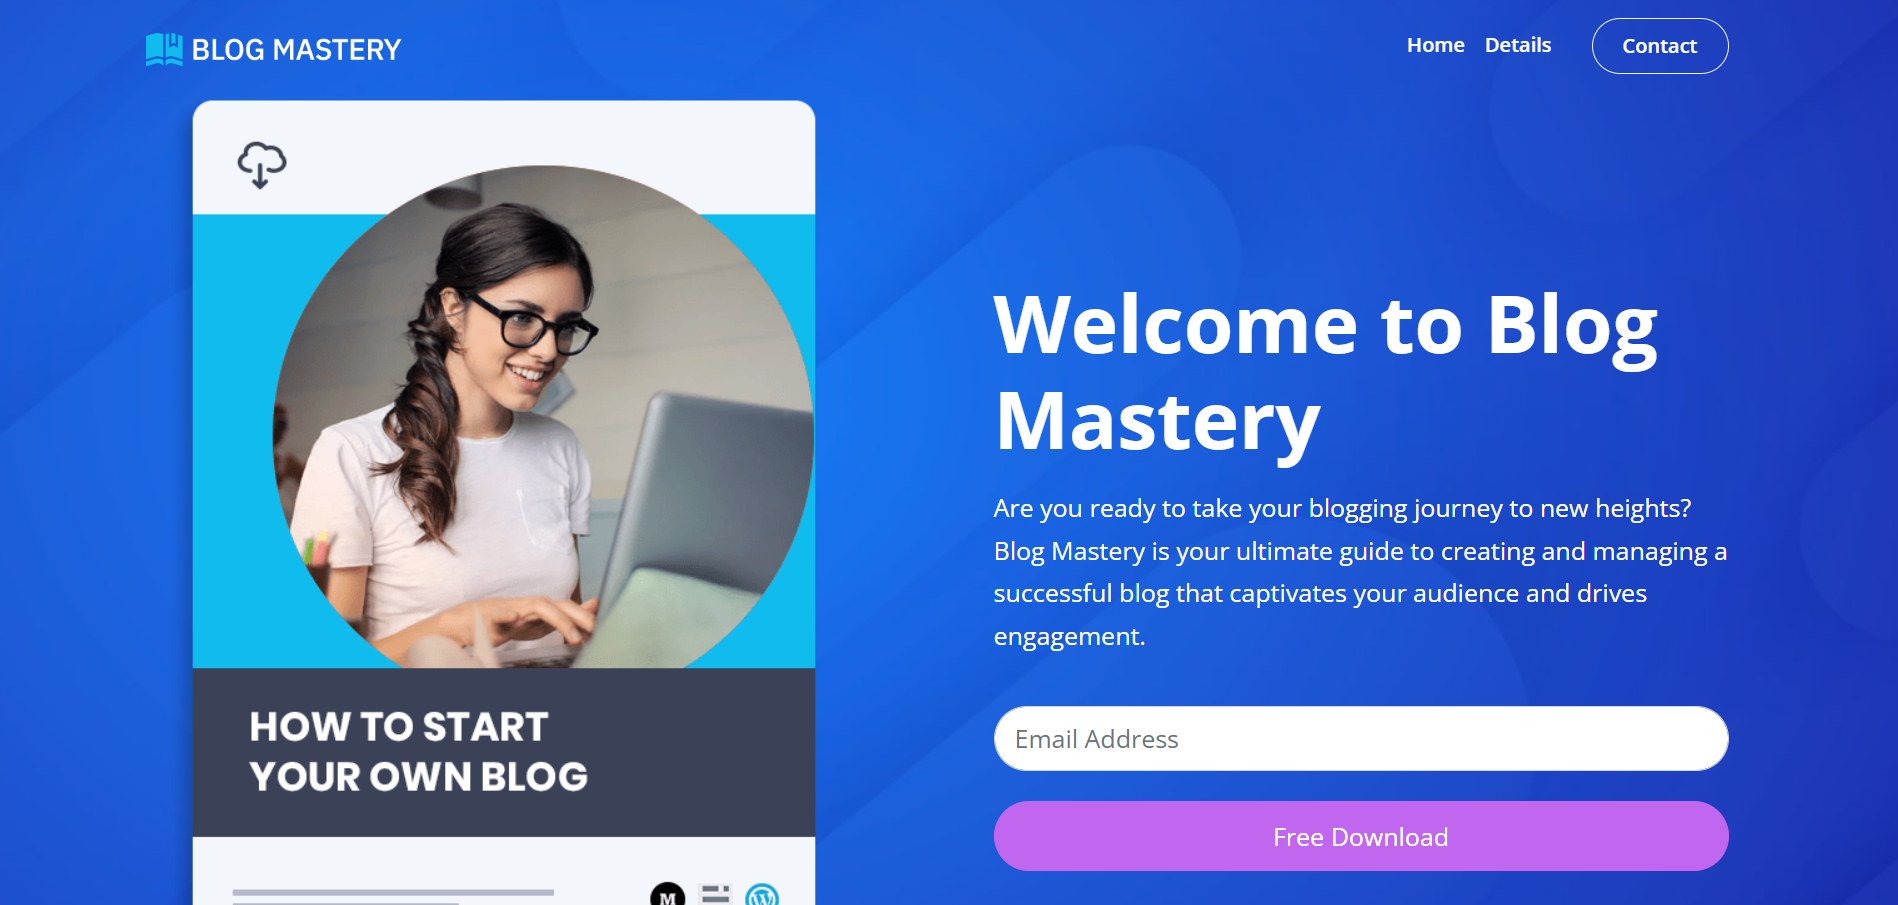
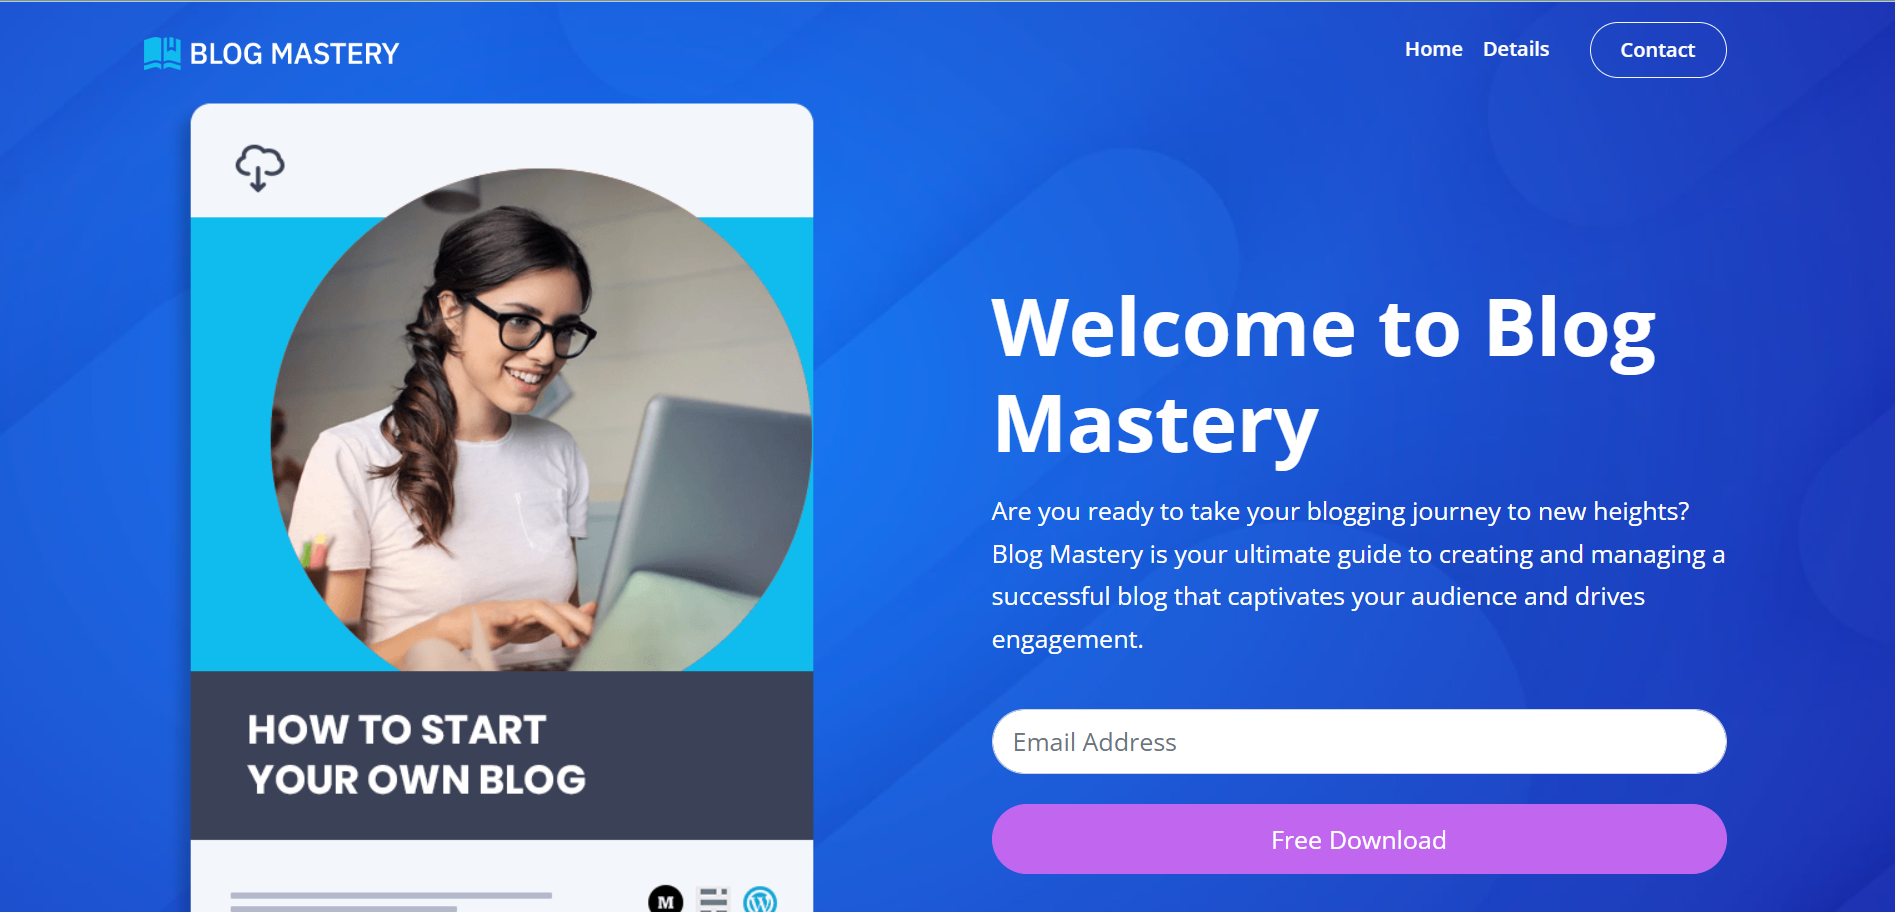
images upload

diff --git a/index.html b/index.html
@@ -4,7 +4,7 @@
   <meta charset="UTF-8">
   <meta name="viewport" content="width=device-width, initial-scale=1.0">
   <title>Abu Bakar - Web Developer</title>
-  <link href="./output.css" rel="stylesheet">
+  <link href="./public/output.css" rel="stylesheet">
   
   <script src="https://cdnjs.cloudflare.com/ajax/libs/gsap/3.12.2/gsap.min.js"></script>
   <script src="https://cdnjs.cloudflare.com/ajax/libs/gsap/3.12.2/ScrollTrigger.min.js"></script>
@@ -113,27 +113,6 @@
               Get In Touch
             </a>
           </div>
-
-          <!-- Social Links -->
-          <!-- <div class="flex gap-6 mb-10"> for animatio:  hero-social -->
-             <!-- <a href="https://github.com/AbuBakarSE" aria-label="github" target="_blank" rel="noopener noreferrer" class="hover:text-purple-400  transform hover:scale-110">
-              <svg class="w-6 h-6" fill="currentColor" viewBox="0 0 24 24">
-                <path d="M12 0C5.37 0 0 5.37 0 12c0 5.31 3.435 9.795 8.205 11.385.6.105.825-.255.825-.57 0-.285-.015-1.23-.015-2.235-3.015.555-3.795-.735-4.035-1.41-.135-.345-.72-1.41-1.23-1.695-.42-.225-1.02-.78-.015-.795.945-.015 1.62.87 1.845 1.23 1.08 1.815 2.805 1.305 3.495.99.105-.78.42-1.305.765-1.605-2.67-.3-5.46-1.335-5.46-5.925 0-1.305.465-2.385 1.23-3.225-.12-.3-.54-1.53.12-3.18 0 0 1.005-.315 3.3 1.23.96-.27 1.98-.405 3-.405s2.04.135 3 .405c2.295-1.56 3.3-1.23 3.3-1.23.66 1.65.24 2.88.12 3.18.765.84 1.23 1.905 1.23 3.225 0 4.605-2.805 5.625-5.475 5.925.435.375.81 1.095.81 2.22 0 1.605-.015 2.895-.015 3.3 0 .315.225.69.825.57A12.02 12.02 0 0024 12c0-6.63-5.37-12-12-12z"/>
-              </svg>
-            </a>
-            <a href="https://www.linkedin.com/in/abu-bakar-se/" aria-label="linkedin" target="_blank" rel="noopener noreferrer" class="hover:text-purple-400  transform hover:scale-110">
-              <svg class="w-6 h-6" fill="currentColor" viewBox="0 0 24 24">
-                <path d="M20.447 20.452h-3.554v-5.569c0-1.328-.027-3.037-1.852-3.037-1.853 0-2.136 1.445-2.136 2.939v5.667H9.351V9h3.414v1.561h.046c.477-.9 1.637-1.85 3.37-1.85 3.601 0 4.267 2.37 4.267 5.455v6.286zM5.337 7.433c-1.144 0-2.063-.926-2.063-2.065 0-1.138.92-2.063 2.063-2.063 1.14 0 2.064.925 2.064 2.063 0 1.139-.925 2.065-2.064 2.065zm1.782 13.019H3.555V9h3.564v11.452zM22.225 0H1.771C.792 0 0 .774 0 1.729v20.542C0 23.227.792 24 1.771 24h20.451C23.2 24 24 23.227 24 22.271V1.729C24 .774 23.2 0 22.222 0h.003z"/>
-              </svg>
-            
-            </a>
-            <a href="https://x.com/AbuBakar_devv" aria-label="twitter" target="_blank" rel="noopener noreferrer" class="hover:text-purple-400  transform hover:scale-110">
-              <svg class="w-6 h-6" fill="currentColor" viewBox="0 0 24 24">
-                <path d="M23.953 4.57a10 10 0 01-2.825.775 4.958 4.958 0 002.163-2.723c-.951.555-2.005.959-3.127 1.184a4.92 4.92 0 00-8.384 4.482C7.69 8.095 4.067 6.13 1.64 3.162a4.822 4.822 0 00-.666 2.475c0 1.71.87 3.213 2.188 4.096a4.904 4.904 0 01-2.228-.616v.06a4.923 4.923 0 003.946 4.827 4.996 4.996 0 01-2.212.085 4.936 4.936 0 004.604 3.417 9.867 9.867 0 01-6.102 2.105c-.39 0-.779-.023-1.17-.067a13.995 13.995 0 007.557 2.209c9.053 0 13.998-7.496 13.998-13.985 0-.21 0-.42-.015-.63A9.935 9.935 0 0024 4.59z"/>
-              </svg>
-            </a>
-          </div> -->
-
         </div>
 
         <!-- Right Side - Profile Picture -->
@@ -297,13 +276,13 @@
           </div>
 
           <!-- CTA Buttons -->
-          <div class="flex flex-col sm:flex-row gap-4">
+          <div class="flex">
             <a href="#contact" class="btn-primary bg-gradient-to-r from-purple-600 to-blue-600 px-6 py-3 rounded-full font-semibold text-center hover:shadow-lg hover:shadow-purple-500/50 ">
               Let's Work Together
             </a>
-            <a href="#" class="bg-transparent border-2 border-purple-500 px-6 py-3 rounded-full font-semibold text-center hover:bg-purple-500/10 ">
+            <!-- <a href="#" class="bg-transparent border-2 border-purple-500 px-6 py-3 rounded-full font-semibold text-center hover:bg-purple-500/10 ">
               Download CV
-            </a>
+            </a> -->
           </div>
 
         </div>
@@ -679,15 +658,18 @@
             <!-- Figma Icon -->
             <div class="tech-icon group">
               <div class="w-24 h-24 bg-gray-800 rounded-xl flex items-center justify-center border-2 border-gray-700 hover:border-pink-500 transition-all duration-300 hover:shadow-lg hover:shadow-pink-500/50 cursor-pointer hover:scale-110">
-                <svg class="w-14 h-14" viewBox="0 0 24 24" fill="none" xmlns="http://www.w3.org/2000/svg">
+                <!-- <svg class="w-14 h-14" viewBox="0 0 24 24" fill="none" xmlns="http://www.w3.org/2000/svg">
                   <path d="M8 24c2.208 0 4-1.792 4-4v-4H8c-2.208 0-4 1.792-4 4s1.792 4 4 4z" fill="#0ACF83"/>
                   <path d="M4 12c0-2.208 1.792-4 4-4h4v8H8c-2.208 0-4-1.792-4-4z" fill="#A259FF"/>
                   <path d="M4 4c0-2.208 1.792-4 4-4h4v8H8C5.792 8 4 6.208 4 4z" fill="#F24E1E"/>
                   <path d="M12 0h4c2.208 0 4 1.792 4 4s-1.792 4-4 4h-4V0z" fill="#FF7262"/>
                   <path d="M20 12c0 2.208-1.792 4-4 4s-4-1.792-4-4 1.792-4 4-4 4 1.792 4 4z" fill="#1ABCFE"/>
+                </svg> -->
+                <svg class="w-14 h-14" viewBox="0 0 24 24" fill="none" xmlns="http://www.w3.org/2000/svg">
+                  <path d="M12 0L24 24H0L12 0Z" fill="currentColor"/>
                 </svg>
               </div>
-              <p class="text-center mt-3 text-base font-medium text-gray-400 group-hover:text-pink-500 ">Figma</p>
+              <p class="text-center mt-3 text-base font-medium text-gray-400 group-hover:text-pink-500 ">Vercel</p>
             </div>
 
             <!-- VS Code Icon -->
@@ -702,12 +684,12 @@
 
             <!-- GSAP Icon -->
             <div class="tech-icon group">
-              <div class="w-24 h-24 bg-gray-800 rounded-xl flex items-center justify-center border-2 border-gray-700 hover:border-green-500 transition-all duration-300 hover:shadow-lg hover:shadow-green-500/50 cursor-pointer hover:scale-110">
-                <svg class="w-14 h-14 text-green-500" viewBox="0 0 24 24" fill="currentColor">
-                  <path d="M18.5 9.204H24l-7.5 13v-8.3h-5.5L18.5 0zm-13 5.596L0 1.8h5.5l7.5 13v-8.3h5.5z"/>
+              <div class="w-24 h-24 bg-gray-800 rounded-xl flex items-center justify-center border-2 border-gray-700 hover:border-green-200 transition-all duration-300 hover:shadow-lg hover:shadow-green-500/50 cursor-pointer hover:scale-110">
+                <svg class="w-14 h-14" viewBox="0 0 24 24" fill="none" xmlns="http://www.w3.org/2000/svg">
+                  <path d="M12 0C5.37 0 0 5.37 0 12c0 5.31 3.435 9.795 8.205 11.385.6.105.825-.255.825-.57 0-.285-.015-1.23-.015-2.235-3.015.555-3.795-.735-4.035-1.41-.135-.345-.72-1.41-1.23-1.695-.42-.225-1.02-.78-.015-.795.945-.015 1.62.87 1.845 1.23 1.08 1.815 2.805 1.305 3.495.99.105-.78.42-1.305.765-1.605-2.67-.3-5.46-1.335-5.46-5.925 0-1.305.465-2.385 1.23-3.225-.12-.3-.54-1.53.12-3.18 0 0 1.005-.315 3.3 1.23.96-.27 1.98-.405 3-.405s2.04.135 3 .405c2.295-1.56 3.3-1.23 3.3-1.23.66 1.65.24 2.88.12 3.18.765.84 1.23 1.905 1.23 3.225 0 4.605-2.805 5.625-5.475 5.925.435.375.81 1.095.81 2.22 0 1.605-.015 2.895-.015 3.3 0 .315.225.69.825.57A12.02 12.02 0 0024 12c0-6.63-5.37-12-12-12z" fill="#181717"/>
                 </svg>
               </div>
-              <p class="text-center mt-3 text-base font-medium text-gray-400 group-hover:text-green-500 ">GSAP</p>
+              <p class="text-center mt-3 text-base font-medium text-gray-400 group-hover:text-green-500 ">Github</p>
             </div>
 
           </div>
